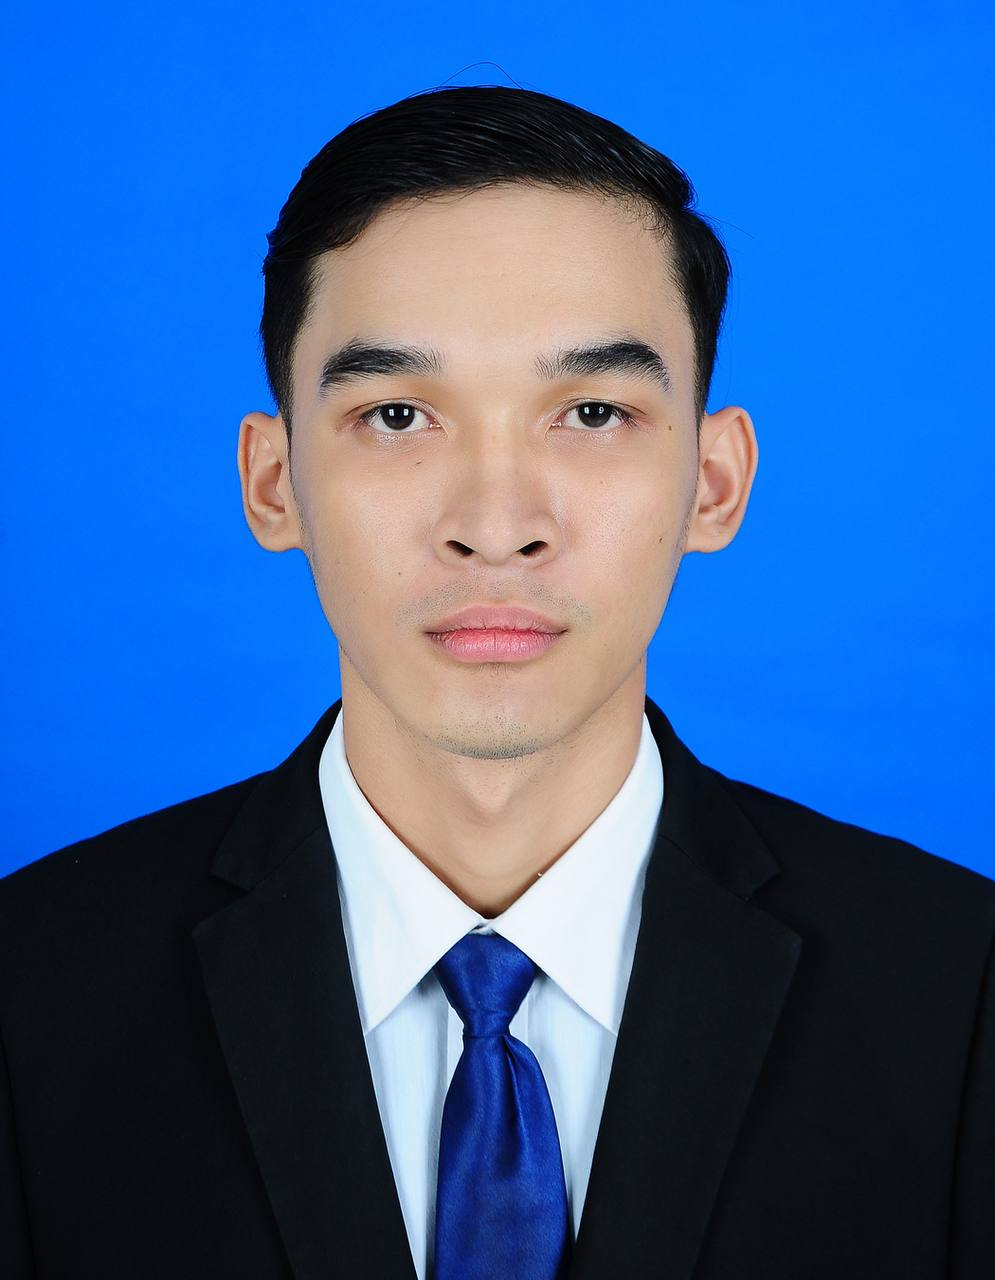
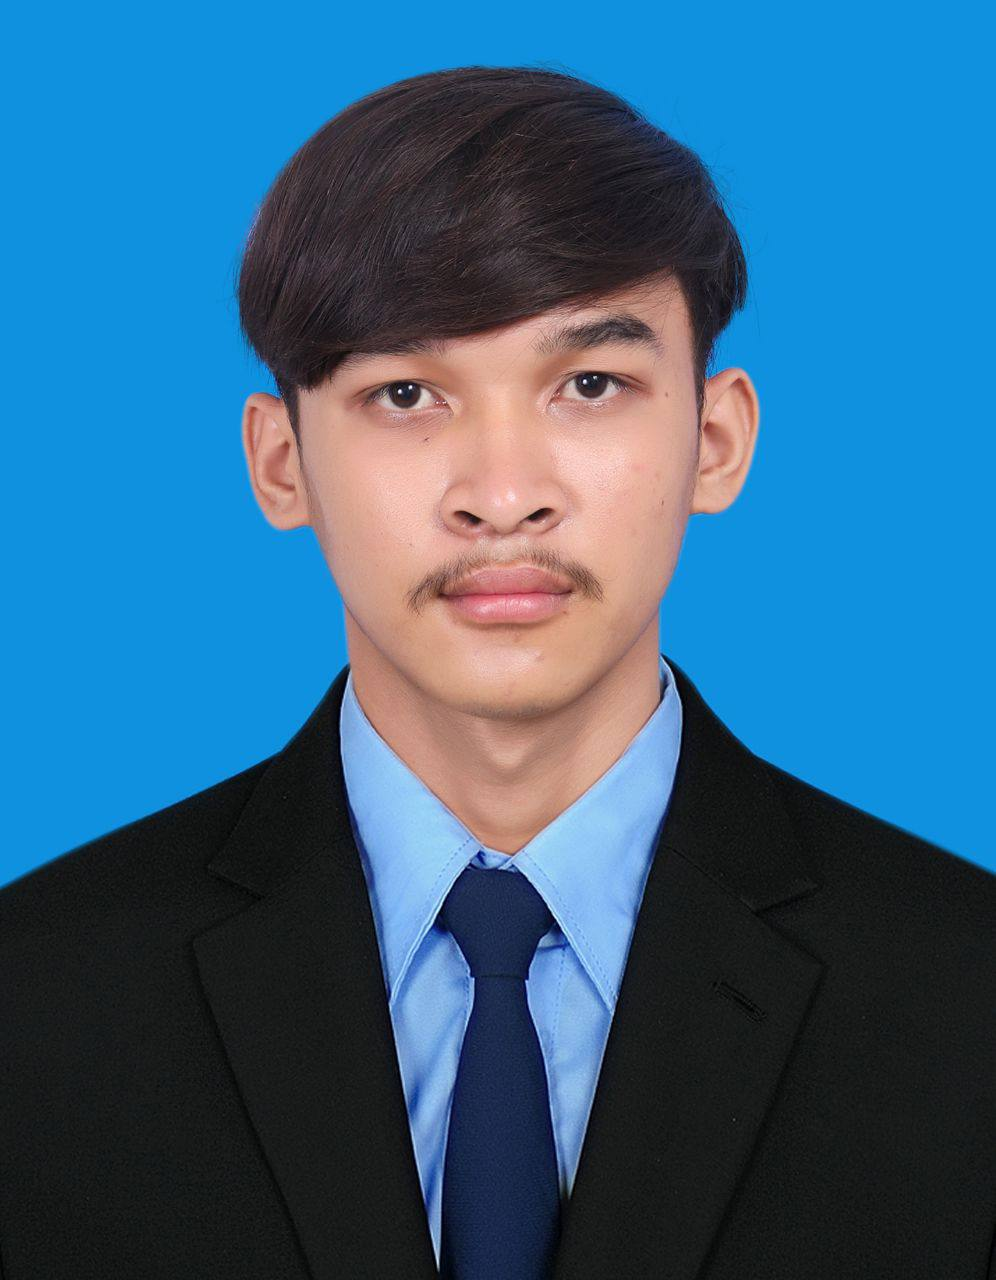
change image

diff --git a/components/Navbar.tsx b/components/Navbar.tsx
@@ -7,11 +7,11 @@ import { useLang } from "@/context/LangContext";
 import { personal } from "@/lib/data";
 
 const NAV_ITEMS = [
-  { id: "profile", file: "Profile" },
-  { id: "experience", file: "Experience" },
-  { id: "skills", file: "Skills" },
-  { id: "projects", file: "Projects" },
-  { id: "contact", file: "Contact" },
+  { id: "profile" },
+  { id: "experience" },
+  { id: "skills" },
+  { id: "projects" },
+  { id: "contact" },
 ];
 
 const GOLD = "text-yellow-500";
@@ -142,7 +142,7 @@ export default function Navbar() {
                   }
                 `}
               >
-                {item.file}
+                {t(`nav.${item.id}`)}
 
                 {/* Active underline */}
                 <span
@@ -247,7 +247,7 @@ export default function Navbar() {
                     }
                   `}
                 >
-                  {item.file}
+                  {t(`nav.${item.id}`)}
 
                   <span className="ml-2 text-[11px] text-muted">
                     {t(`nav.${item.id}`)}
